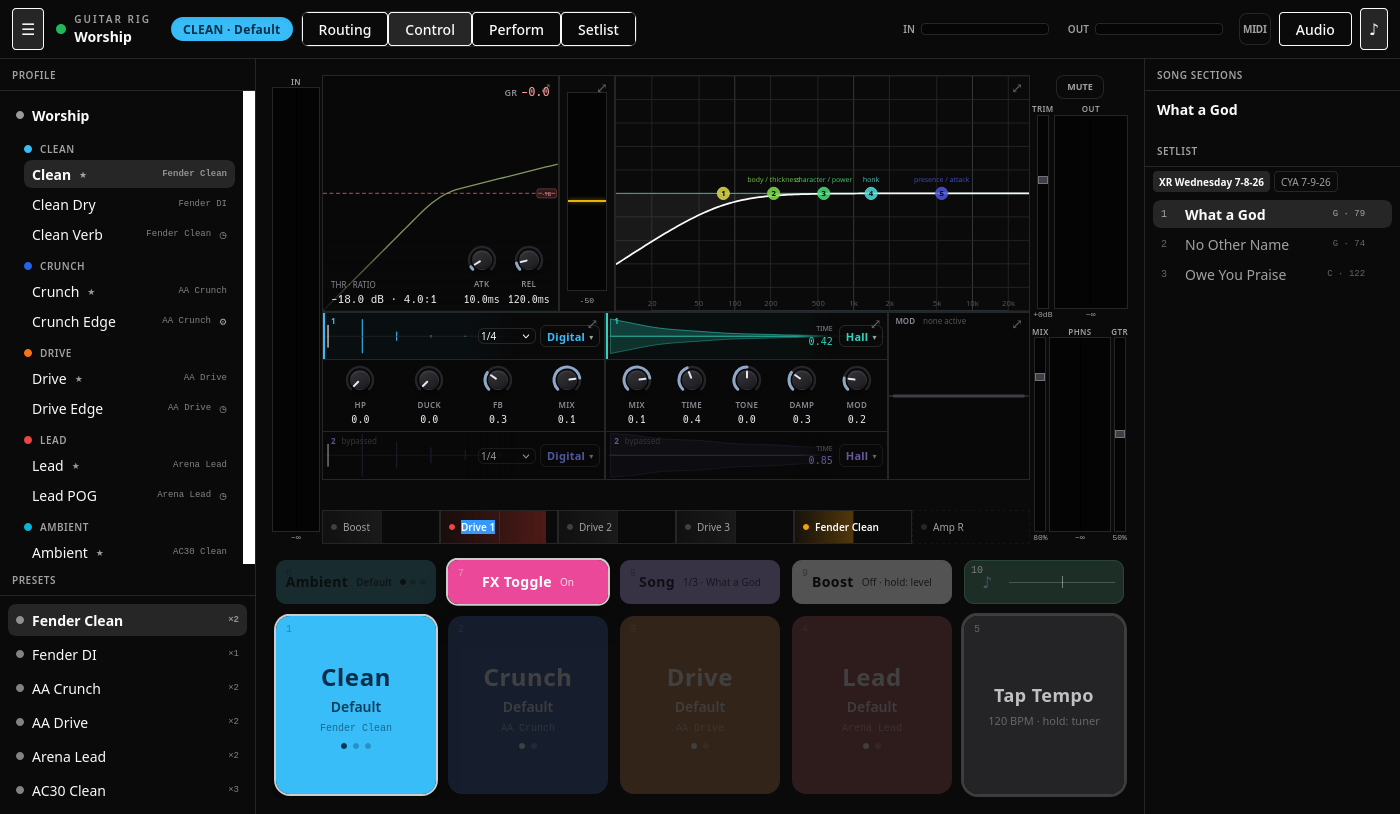
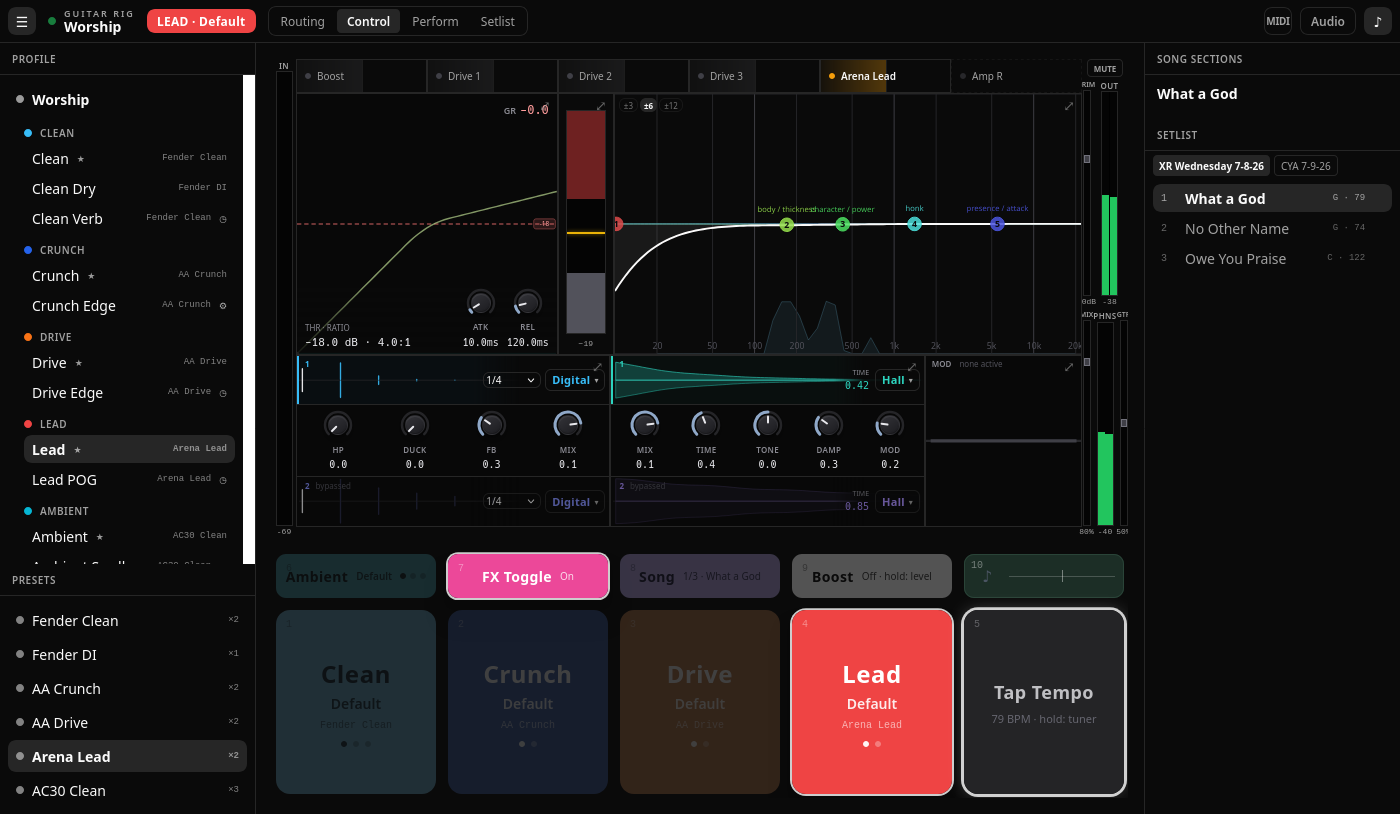
feat(rig): top bar redesign, EQ view resolution + full-width axis
Top bar — one visual system: plain border-border chips (☰, MIDI, Audio,
♪) with accent-filled active states, a real segmented view switcher, and
the identity cluster (status dot · rig/profile · patch lens). The lumen
buttons (source of the stray white outlines) and the header in/out
meters are gone; the bar is slimmer.

EQ — vertical resolution is a view feature: ±6 dB default with ±3/±12
selectable (chips in the graph corner); grid, curve, node drags and
add-band shape inference all follow it. The graph fills its full
horizontal space — 10 Hz at the far left to 22 kHz at the right — with
the viewBox width derived from the panel's measured aspect so drawing
units stay square (no stretch, nodes stay circles) at any panel size.

Claude-Session: https://claude.ai/code/session_01QXo7Un2mDfgH3iU9mUpoiV

diff --git a/signal/features/rigs/guitar/ui/src/remote.rs b/signal/features/rigs/guitar/ui/src/remote.rs
@@ -8,13 +8,11 @@
 //! same building blocks.
 
 use dioxus::prelude::*;
-use lumen_blocks::components::button::{Button, ButtonVariant};
 
 use signal_guitar_proto::AudioPrefs;
 use signal_guitar_proto::audio::AudioSettingsClient;
 use signal_guitar_proto::rig::RigClient;
 
-use crate::meters::MeterPair;
 use crate::perform::PerformGrid;
 use crate::settings::{AudioSettingsBridge, AudioSettingsModal};
 use crate::state::use_rig_state;
@@ -198,84 +196,86 @@ pub fn GuitarRigRemote() -> Element {
         div { class: "flex flex-col h-full bg-background text-foreground",
             // Top bar
             header {
-                class: "flex items-center gap-2 px-3 py-2 border-b border-border bg-card",
+                class: "flex items-center gap-2 px-2 py-1.5 border-b border-border bg-card",
 
                 // Sidebar toggles bookend the bar: presets left, songs right.
-                Button {
-                    variant: if left_open() { ButtonVariant::Secondary } else { ButtonVariant::Ghost },
-                    is_icon_button: true,
-                    aria_label: "Toggle preset sidebar".to_string(),
-                    on_click: move |_| left_open.toggle(),
+                button {
+                    class: if left_open() {
+                        "flex items-center justify-center w-7 h-7 rounded-md bg-accent text-accent-foreground text-sm"
+                    } else {
+                        "flex items-center justify-center w-7 h-7 rounded-md border border-border text-muted-foreground hover:text-foreground text-sm"
+                    },
+                    title: "Preset sidebar",
+                    onclick: move |_| left_open.toggle(),
                     "☰"
                 }
 
-                // Status dot: pulsing green while audio runs, still red when not.
-                span {
-                    class: if running {
-                        "w-2.5 h-2.5 rounded-full ml-1 animate-pulse"
-                    } else {
-                        "w-2.5 h-2.5 rounded-full ml-1"
-                    },
-                    style: if running {
-                        "background-color: #22c55e;"
-                    } else {
-                        "background-color: #ef4444;"
-                    },
-                    title: if running { "audio running" } else { "audio stopped" },
-                }
-                div { class: "flex flex-col mr-2",
-                    span { class: "text-[10px] font-semibold uppercase tracking-[2px] text-muted-foreground",
-                        "Guitar Rig"
+                // Identity block: status dot + rig/profile stack.
+                div { class: "flex items-center gap-2 ml-1 mr-1",
+                    span {
+                        class: if running {
+                            "w-2 h-2 rounded-full animate-pulse flex-shrink-0"
+                        } else {
+                            "w-2 h-2 rounded-full flex-shrink-0"
+                        },
+                        style: if running {
+                            "background-color: #22c55e;"
+                        } else {
+                            "background-color: #ef4444;"
+                        },
+                        title: if running { "audio running" } else { "audio stopped" },
                     }
-                    span { class: "text-sm font-bold",
-                        if !profile.is_empty() { "{profile}" } else { "— no profile —" }
+                    div { class: "flex flex-col leading-none gap-0.5",
+                        span { class: "text-[9px] font-semibold uppercase tracking-[2px] text-muted-foreground",
+                            "Guitar Rig"
+                        }
+                        span { class: "text-sm font-bold leading-none",
+                            if !profile.is_empty() { "{profile}" } else { "— no profile —" }
+                        }
                     }
                 }
 
                 // Active-patch lens — tinted by the active stack's color.
                 div {
-                    class: "flex items-center rounded-full px-3 py-1 ml-1 shadow-inner",
+                    class: "flex items-center rounded-md px-2.5 py-1",
                     style: "background-color: {lens_bg}; color: {lens_fg};",
                     span { class: "text-xs font-bold tracking-wide whitespace-nowrap", "{lens_label}" }
                 }
 
-                // View switcher: Routing | Control | Perform | Setlist.
-                div { class: "flex items-center rounded-md border border-border overflow-hidden",
-                    Button {
-                        variant: if mode() == Mode::Routing { ButtonVariant::Secondary } else { ButtonVariant::Ghost },
-                        on_click: move |_| mode.set(Mode::Routing),
-                        "Routing"
-                    }
-                    Button {
-                        variant: if mode() == Mode::Control { ButtonVariant::Secondary } else { ButtonVariant::Ghost },
-                        on_click: move |_| mode.set(Mode::Control),
-                        "Control"
-                    }
-                    Button {
-                        variant: if mode() == Mode::Perform { ButtonVariant::Secondary } else { ButtonVariant::Ghost },
-                        on_click: move |_| mode.set(Mode::Perform),
-                        "Perform"
-                    }
-                    Button {
-                        variant: if mode() == Mode::Setlist { ButtonVariant::Secondary } else { ButtonVariant::Ghost },
-                        on_click: move |_| mode.set(Mode::Setlist),
-                        "Setlist"
+                // View switcher — one segmented control.
+                div { class: "flex items-center rounded-md border border-border bg-background/40 p-0.5 gap-0.5 ml-1",
+                    for (m, label) in [
+                        (Mode::Routing, "Routing"),
+                        (Mode::Control, "Control"),
+                        (Mode::Perform, "Perform"),
+                        (Mode::Setlist, "Setlist"),
+                    ] {
+                        button {
+                            key: "{label}",
+                            class: if mode() == m {
+                                "rounded px-2.5 py-1 text-xs font-semibold bg-accent text-accent-foreground"
+                            } else {
+                                "rounded px-2.5 py-1 text-xs text-muted-foreground hover:text-foreground"
+                            },
+                            onclick: move |_| mode.set(m),
+                            "{label}"
+                        }
                     }
                 }
 
                 div { class: "flex-1" }
 
-                // Global switch states — visible in every mode, not just Perform.
+                // Global switch states — visible in every mode.
                 if perf_now.fx_bypass {
                     span {
-                        class: "text-[10px] font-bold uppercase tracking-wider rounded px-1.5 py-0.5 mr-1",
+                        class: "text-[10px] font-bold uppercase tracking-wider rounded px-1.5 py-0.5",
                         style: "background-color: #ec4899; color: #ffffff;",
                         "FX off"
                     }
                 }
                 if perf_now.boost_db != 0.0 {
                     span {
-                        class: "text-[10px] font-bold uppercase tracking-wider rounded px-1.5 py-0.5 mr-1",
+                        class: "text-[10px] font-bold uppercase tracking-wider rounded px-1.5 py-0.5",
                         style: "background-color: #fafafa; color: #0a0a0a;",
                         if perf_now.boost_db < 0.0 {
                             "Cut −{-perf_now.boost_db as i32} dB"
@@ -285,24 +285,25 @@ pub fn GuitarRigRemote() -> Element {
                     }
                 }
 
-                if connected {
-                    div { class: "flex items-center gap-2 mr-2",
-                        MeterPair { input: state.in_level.cloned(), output: state.out_level.cloned() }
-                    }
-                }
-
                 crate::control::MidiMonitorButton {}
 
-                Button {
-                    variant: if audio_open() { ButtonVariant::Secondary } else { ButtonVariant::Ghost },
-                    on_click: move |_| audio_open.toggle(),
+                button {
+                    class: if audio_open() {
+                        "flex items-center justify-center h-7 px-2.5 rounded-md bg-accent text-accent-foreground text-xs font-semibold"
+                    } else {
+                        "flex items-center justify-center h-7 px-2.5 rounded-md border border-border text-muted-foreground hover:text-foreground text-xs font-semibold"
+                    },
+                    onclick: move |_| audio_open.toggle(),
                     "Audio"
                 }
-                Button {
-                    variant: if right_open() { ButtonVariant::Secondary } else { ButtonVariant::Ghost },
-                    is_icon_button: true,
-                    aria_label: "Toggle songs sidebar".to_string(),
-                    on_click: move |_| right_open.toggle(),
+                button {
+                    class: if right_open() {
+                        "flex items-center justify-center w-7 h-7 rounded-md bg-accent text-accent-foreground text-sm"
+                    } else {
+                        "flex items-center justify-center w-7 h-7 rounded-md border border-border text-muted-foreground hover:text-foreground text-sm"
+                    },
+                    title: "Songs sidebar",
+                    onclick: move |_| right_open.toggle(),
                     "♪"
                 }
             }

diff --git a/signal/features/rigs/guitar/ui/src/eq_surface.rs b/signal/features/rigs/guitar/ui/src/eq_surface.rs
@@ -24,11 +24,12 @@ use signal_guitar_proto::LiveBlock;
 use signal_guitar_proto::rig::RigClient;
 
 const NUM_BANDS: usize = 24;
-const W: f64 = 480.0;
-const H: f64 = 270.0; // 16:9
-const MIN_FREQ: f64 = 10.0;
-const MAX_FREQ: f64 = 30000.0;
-const DB_RANGE: f64 = 30.0;
+const H: f64 = 270.0; // viewBox height; width follows the panel's aspect
+const MIN_FREQ: f64 = 10.0; // "0 Hz" — log axis floor
+const MAX_FREQ: f64 = 22_050.0;
+
+/// Vertical resolution options (± dB) — a view feature, default ±6.
+const DB_RANGES: [f64; 3] = [3.0, 6.0, 12.0];
 const SAMPLE_RATE: f64 = 48000.0;
 const HIT_RADIUS: f64 = 16.0;
 
@@ -99,9 +100,17 @@ pub fn EqProSurface(block: LiveBlock, spectrum: Vec<f32>) -> Element {
     let mut selected = use_signal(|| None::<usize>);
     let mut dragging = use_signal(|| None::<usize>);
     let mut svg_el = use_signal(|| None::<std::rc::Rc<MountedData>>);
+    // View vertical resolution: ±3 / ±6 / ±12 dB (default ±6).
+    let mut range_db = use_signal(|| 6.0f64);
+    // The viewBox width follows the panel's real aspect so drawing units
+    // stay square (nodes are circles, no stretch) while the graph fills
+    // every horizontal pixel: 10 Hz at the far left, 22 kHz at the right.
+    let mut vb_w = use_signal(|| 480.0f64);
 
     let bands = bands_of(&block);
-    let mapper = GraphMapper::new(MIN_FREQ, MAX_FREQ, DB_RANGE, W, H, 0.0);
+    let db_range = range_db();
+    let w = vb_w();
+    let mapper = GraphMapper::new(MIN_FREQ, MAX_FREQ, db_range, w, H, 0.0);
 
     // Curves + grid + labels — straight from eq-ui's generators.
     let curves = generate_all_eq_curves(
@@ -109,14 +118,14 @@ pub fn EqProSurface(block: LiveBlock, spectrum: Vec<f32>) -> Element {
         SAMPLE_RATE,
         MIN_FREQ,
         MAX_FREQ,
-        DB_RANGE,
+        db_range,
         0.0,
-        W,
+        w,
         H,
         128,
     );
-    let grid = generate_grid_elements(0.0, W, H, MIN_FREQ, MAX_FREQ, DB_RANGE);
-    let freq_labels = generate_freq_labels(0.0, W, H, MIN_FREQ, MAX_FREQ);
+    let grid = generate_grid_elements(0.0, w, H, MIN_FREQ, MAX_FREQ, db_range);
+    let freq_labels = generate_freq_labels(0.0, w, H, MIN_FREQ, MAX_FREQ);
 
     // Input spectrum fill (20 Hz–20 kHz log bins → mapper space).
     let spec_poly = if spectrum.is_empty() {
@@ -135,13 +144,14 @@ pub fn EqProSurface(block: LiveBlock, spectrum: Vec<f32>) -> Element {
     };
 
     // Pointer → graph coordinates (svg is scaled; measure the element).
+    let gw = w;
     let to_graph = move |coords: dioxus::html::geometry::ElementPoint,
                          el: Option<std::rc::Rc<MountedData>>|
           -> std::pin::Pin<Box<dyn std::future::Future<Output = Option<(f64, f64)>>>> {
         Box::pin(async move {
             let el = el?;
             let rect = el.get_client_rect().await.ok()?;
-            Some((coords.x / rect.width() * W, coords.y / rect.height() * H))
+            Some((coords.x / rect.width() * gw, coords.y / rect.height() * H))
         })
     };
 
@@ -153,12 +163,22 @@ pub fn EqProSurface(block: LiveBlock, spectrum: Vec<f32>) -> Element {
     let bands_for_wheel = bands.clone();
 
     rsx! {
-        div { class: "relative flex flex-col h-full min-h-0",
+        div { class: "relative flex flex-col h-full w-full min-h-0",
             svg {
                 class: "w-full flex-1 min-h-0 touch-none select-none",
-                view_box: "0 0 480 270",
+                view_box: "0 0 {w:.0} 270",
                 preserve_aspect_ratio: "none",
-                onmounted: move |e| svg_el.set(Some(e.data())),
+                onmounted: move |e| {
+                    let data = e.data();
+                    svg_el.set(Some(data.clone()));
+                    spawn(async move {
+                        if let Ok(rect) = data.get_client_rect().await {
+                            if rect.height() > 1.0 {
+                                vb_w.set((H * rect.width() / rect.height()).max(120.0));
+                            }
+                        }
+                    });
+                },
 
                 // Add a band where the user double-clicks — shape inferred
                 // from position (eq-ui's rule).
@@ -176,7 +196,7 @@ pub fn EqProSurface(block: LiveBlock, spectrum: Vec<f32>) -> Element {
                             let Some(i) = free else { return };
                             let freq = mapper.x_to_freq(x).clamp(MIN_FREQ, MAX_FREQ);
                             let gain = mapper.y_to_db(y);
-                            let shape = filter_type_for_position(freq, gain, DB_RANGE);
+                            let shape = filter_type_for_position(freq, gain, db_range);
                             if let Some(r) = rig {
                                 let id = |f: &str| (block_id.clone(), format!("b{}_{f}", i + 1));
                                 let (bid, n) = id("freq");
@@ -345,6 +365,25 @@ pub fn EqProSurface(block: LiveBlock, spectrum: Vec<f32>) -> Element {
                                 }
                             }
                         }
+                    }
+                }
+            }
+
+            // Vertical-resolution selector (±3 / ±6 / ±12 dB), top-left.
+            div {
+                class: "absolute top-1 left-1 z-10 flex gap-0.5",
+                for r in DB_RANGES {
+                    button {
+                        class: if range_db() == r {
+                            "rounded-sm px-1 py-0 text-[8px] font-bold bg-accent text-accent-foreground"
+                        } else {
+                            "rounded-sm px-1 py-0 text-[8px] text-muted-foreground/70 hover:text-foreground border border-border/50"
+                        },
+                        onclick: move |e: MouseEvent| {
+                            e.stop_propagation();
+                            range_db.set(r);
+                        },
+                        {format!("±{}", r as u32)}
                     }
                 }
             }

diff --git a/signal/features/rigs/guitar/ui/src/control.rs b/signal/features/rigs/guitar/ui/src/control.rs
@@ -372,7 +372,7 @@ pub fn MidiMonitorButton() -> Element {
     let seen = !entries.is_empty();
     rsx! {
         button {
-            class: "relative flex items-center justify-center w-8 h-8 rounded-md border border-border text-muted-foreground hover:text-foreground",
+            class: "relative flex items-center justify-center w-7 h-7 rounded-md border border-border text-muted-foreground hover:text-foreground",
             title: "MIDI monitor",
             onclick: move |_| open.set(true),
             span { class: "text-[10px] font-bold tracking-tight", "MIDI" }
